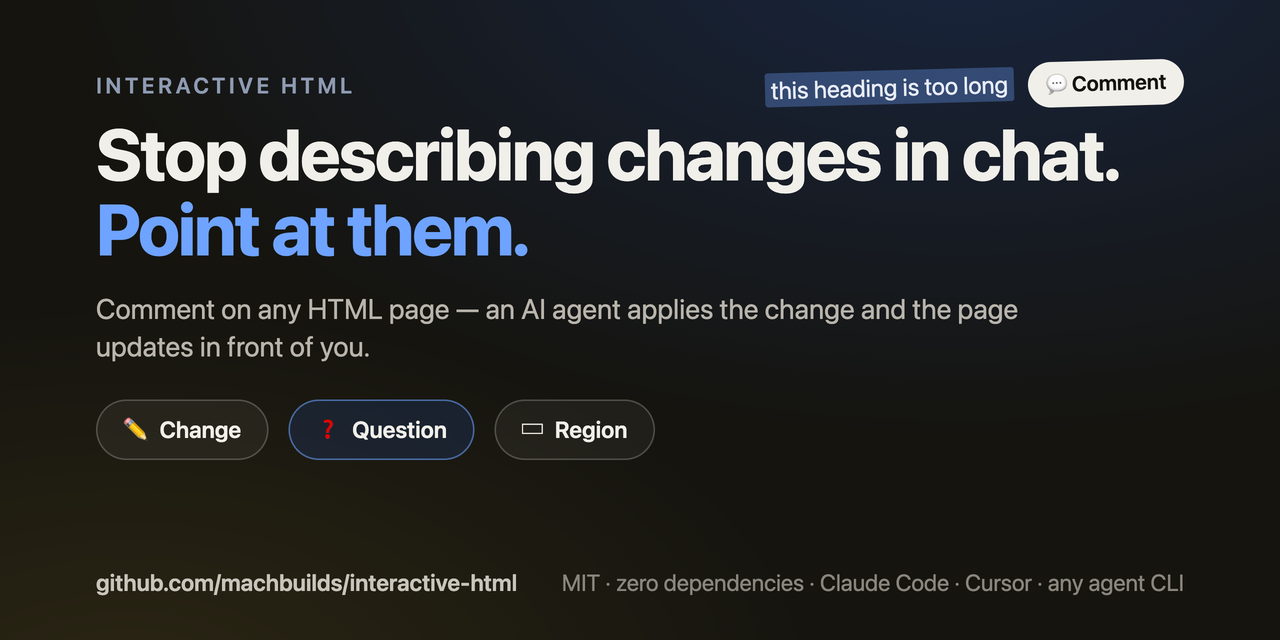
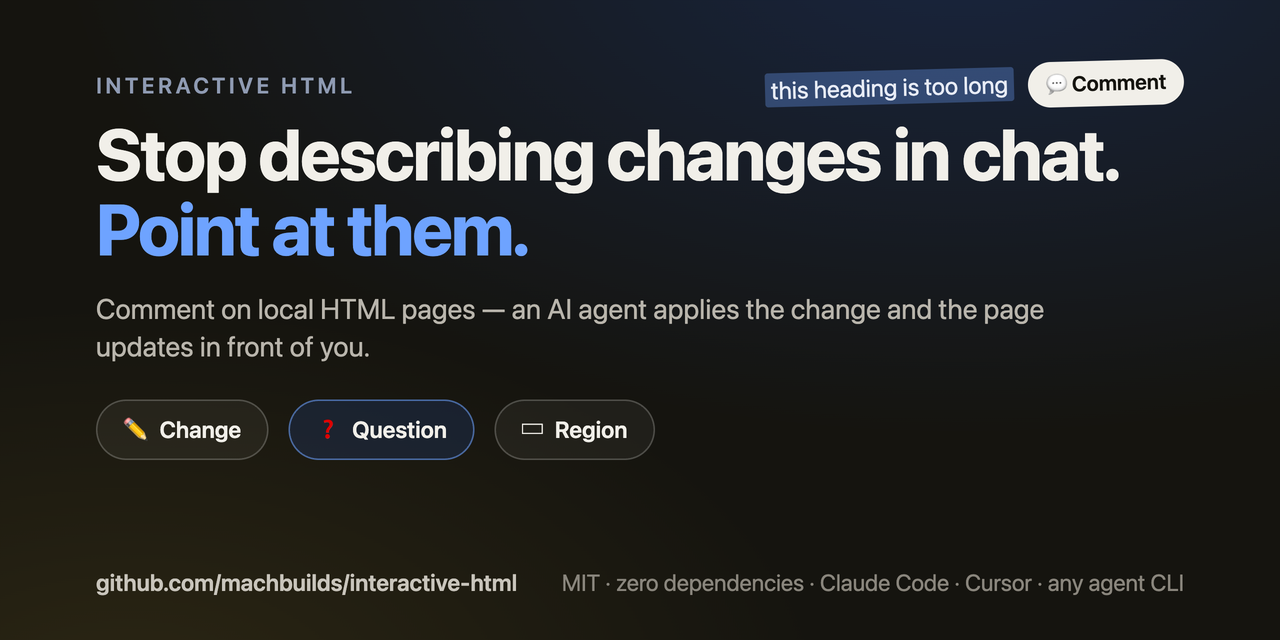
Honest wording: 'local HTML pages', not 'any HTML page'
The product needs filesystem access to edit the HTML, so 'any HTML page'
overpromised (implied it works against deployed sites). Updated README
hero, social preview card + PNG, marketplace.json description, GitHub
repo description, and html-designer SKILL.md description to read 'local
HTML pages'.

Also tightens html-designer's description to lead with the differentiator
(iterate by commenting instead of describing changes) — the generation
shelf is crowded; the pairing is the moat.

Changed region(s): [[0.1875, 0.4688, 0.8125, 0.5]]

diff --git a/docs/social-card.html b/docs/social-card.html
@@ -95,7 +95,7 @@
   <div class="selection-demo"><span class="sel">this heading is too long</span><span class="bubble">💬 Comment</span></div>
   <div class="kicker">Interactive HTML</div>
   <h1>Stop describing changes in chat.<br><span class="accent">Point at them.</span></h1>
-  <div class="tagline">Comment on any HTML page — an AI agent applies the change and the page updates in front of you.</div>
+  <div class="tagline">Comment on local HTML pages — an AI agent applies the change and the page updates in front of you.</div>
   <div class="intents">
     <span class="pill"><span class="ico">✏️</span> Change</span>
     <span class="pill q"><span class="ico">❓</span> Question</span>

diff --git a/README.md b/README.md
@@ -4,7 +4,7 @@
 
 ### Stop describing changes in chat. Point at them.
 
-**Comment on any HTML page — an AI agent applies the change and the page
+**Comment on local HTML pages — an AI agent applies the change and the page
 updates in front of you.**
 
 [![CI](https://github.com/machbuilds/interactive-html/actions/workflows/ci.yml/badge.svg)](https://github.com/machbuilds/interactive-html/actions/workflows/ci.yml)

diff --git a/skills/html-designer/SKILL.md b/skills/html-designer/SKILL.md
@@ -5,7 +5,7 @@ author: machbuilds
 license: MIT
 homepage: https://github.com/machbuilds/interactive-html
 tags: [html, design, generation, ui, agent-skills]
-description: Create a polished, self-contained HTML page from a description, content, or notes — then offer to make it interactive so the user can iterate by commenting on the page itself. Trigger phrases — "build me a page", "create an html page", "turn this into a page", "make a page about", "design a page for", "make an interactive page from this".
+description: Generate a polished, self-contained HTML page from a description or content — semantic markup, light/dark, inline-SVG diagrams, zero dependencies — then offer to make it interactive so the user iterates by commenting on the page instead of describing changes in chat. Trigger phrases — "build me a page", "create an html page", "turn this into a page", "make a page about", "design a page for", "make an interactive page from this".
 ---
 
 # HTML Designer